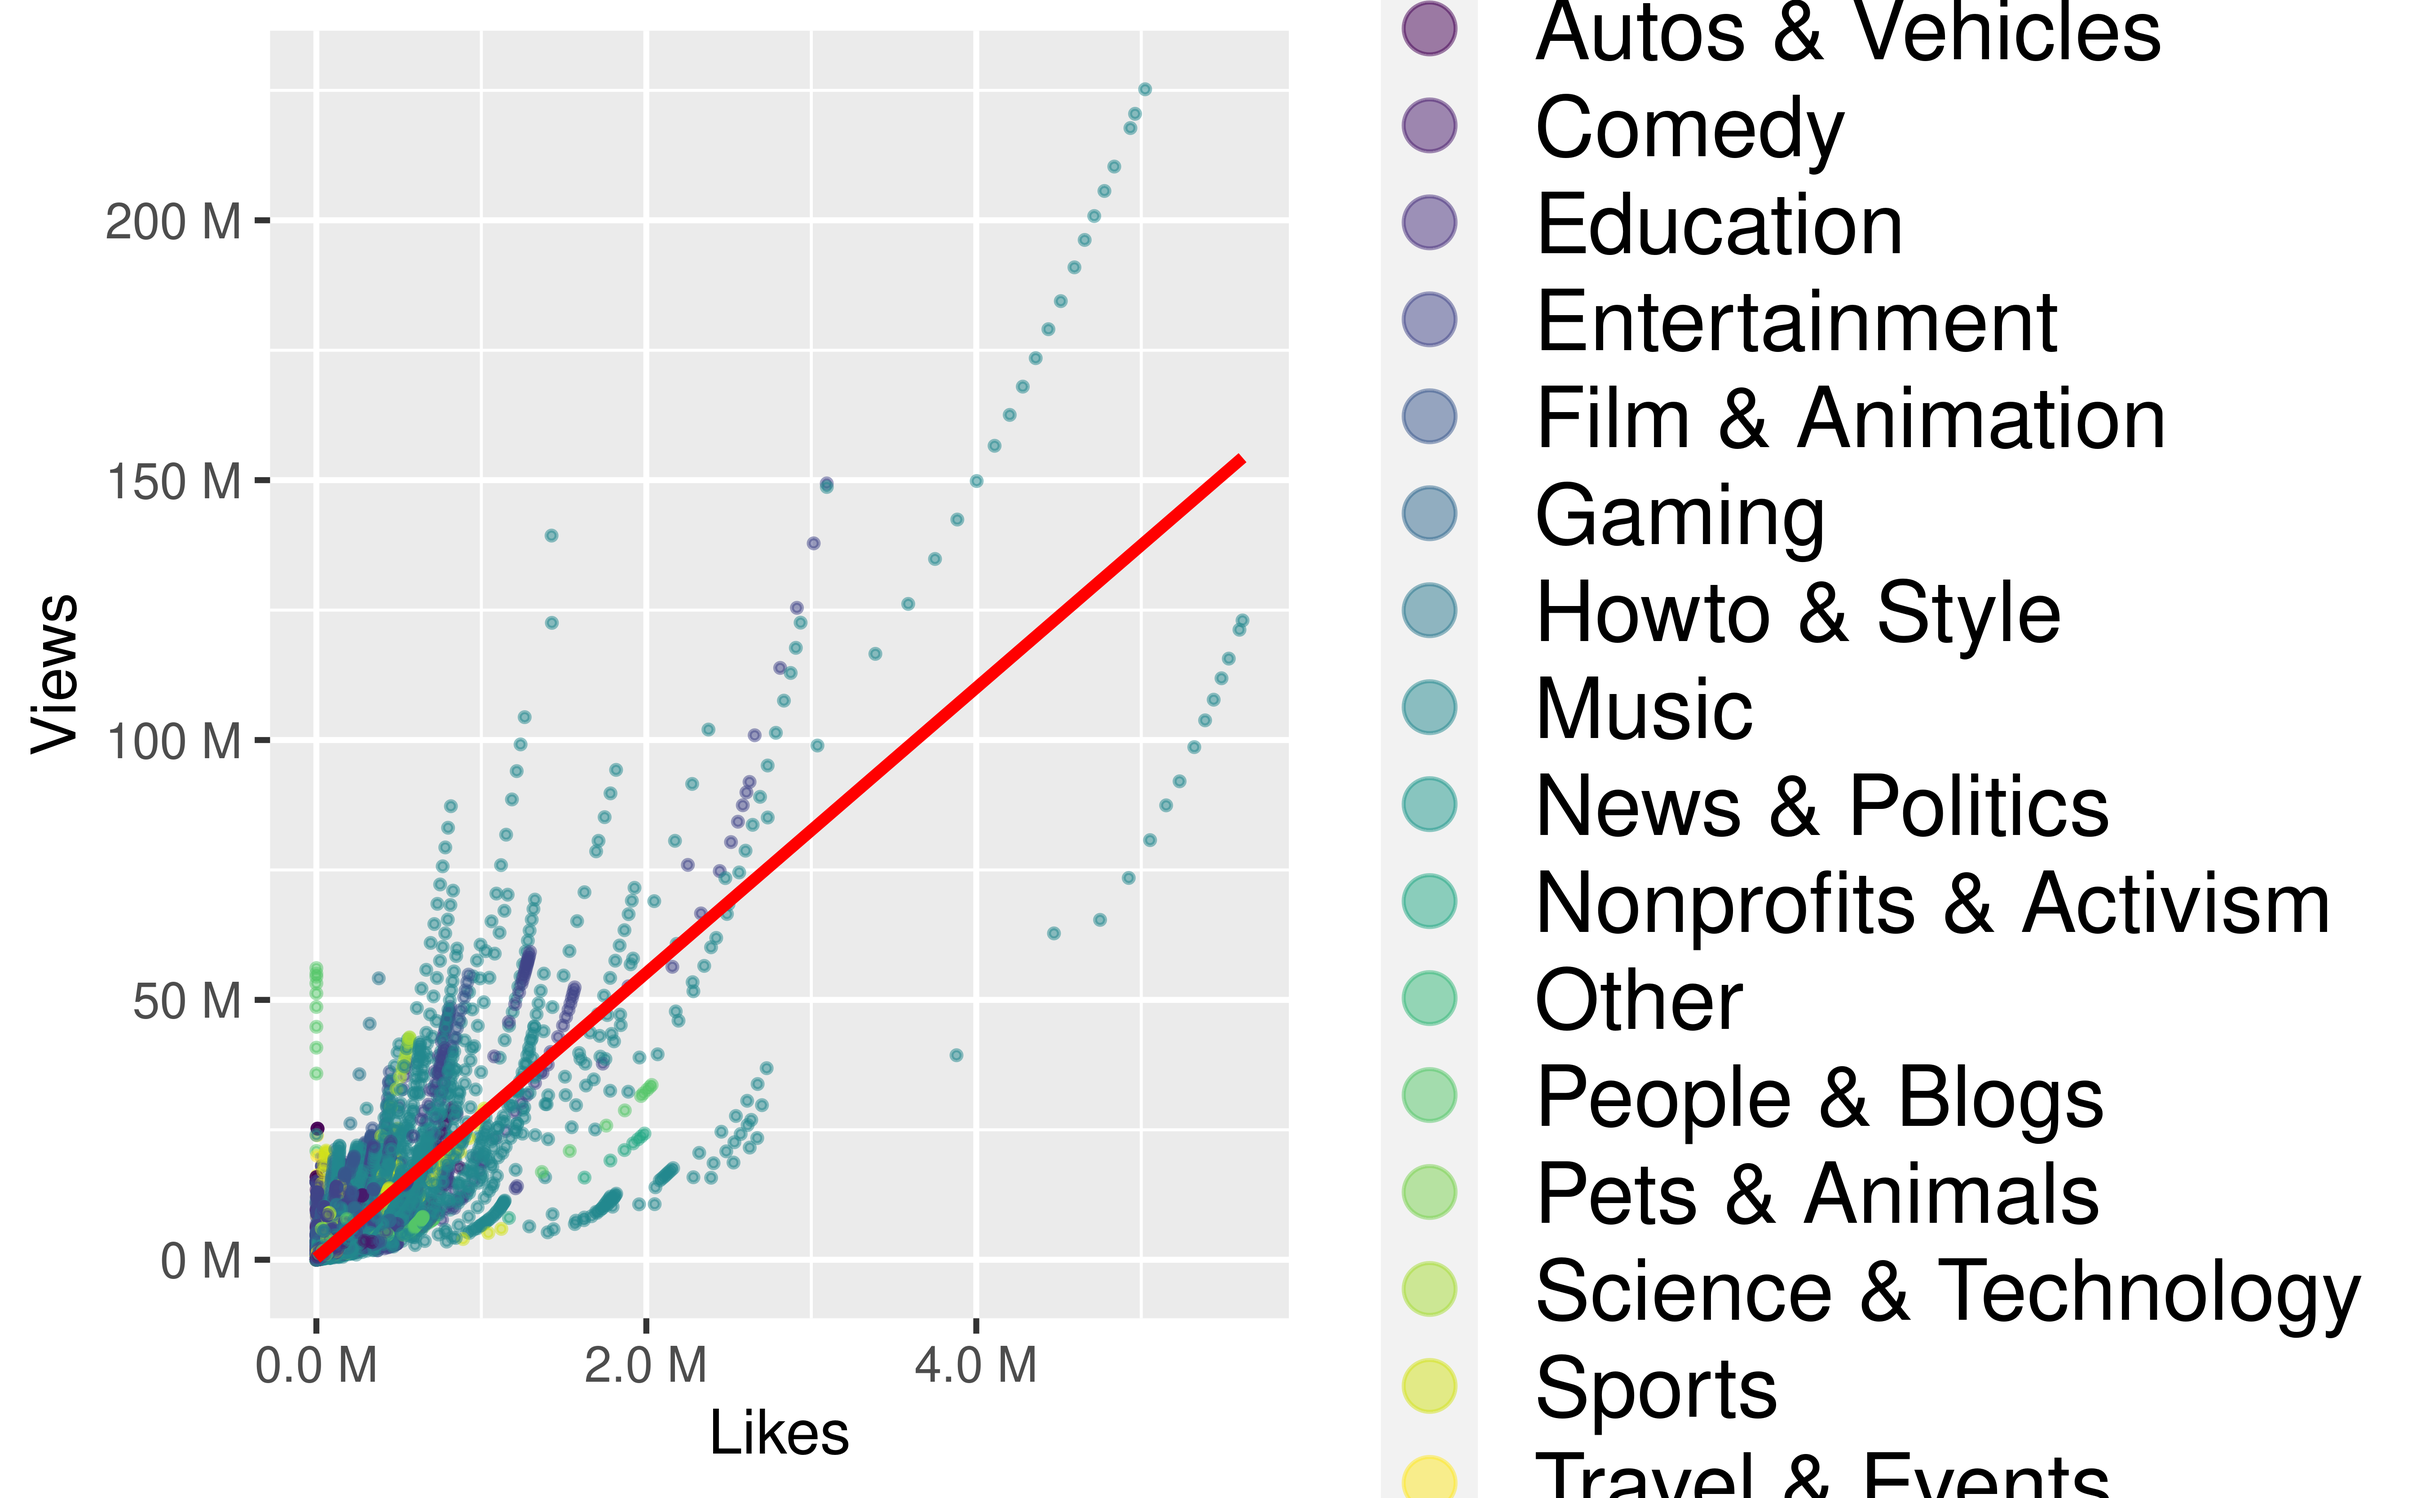
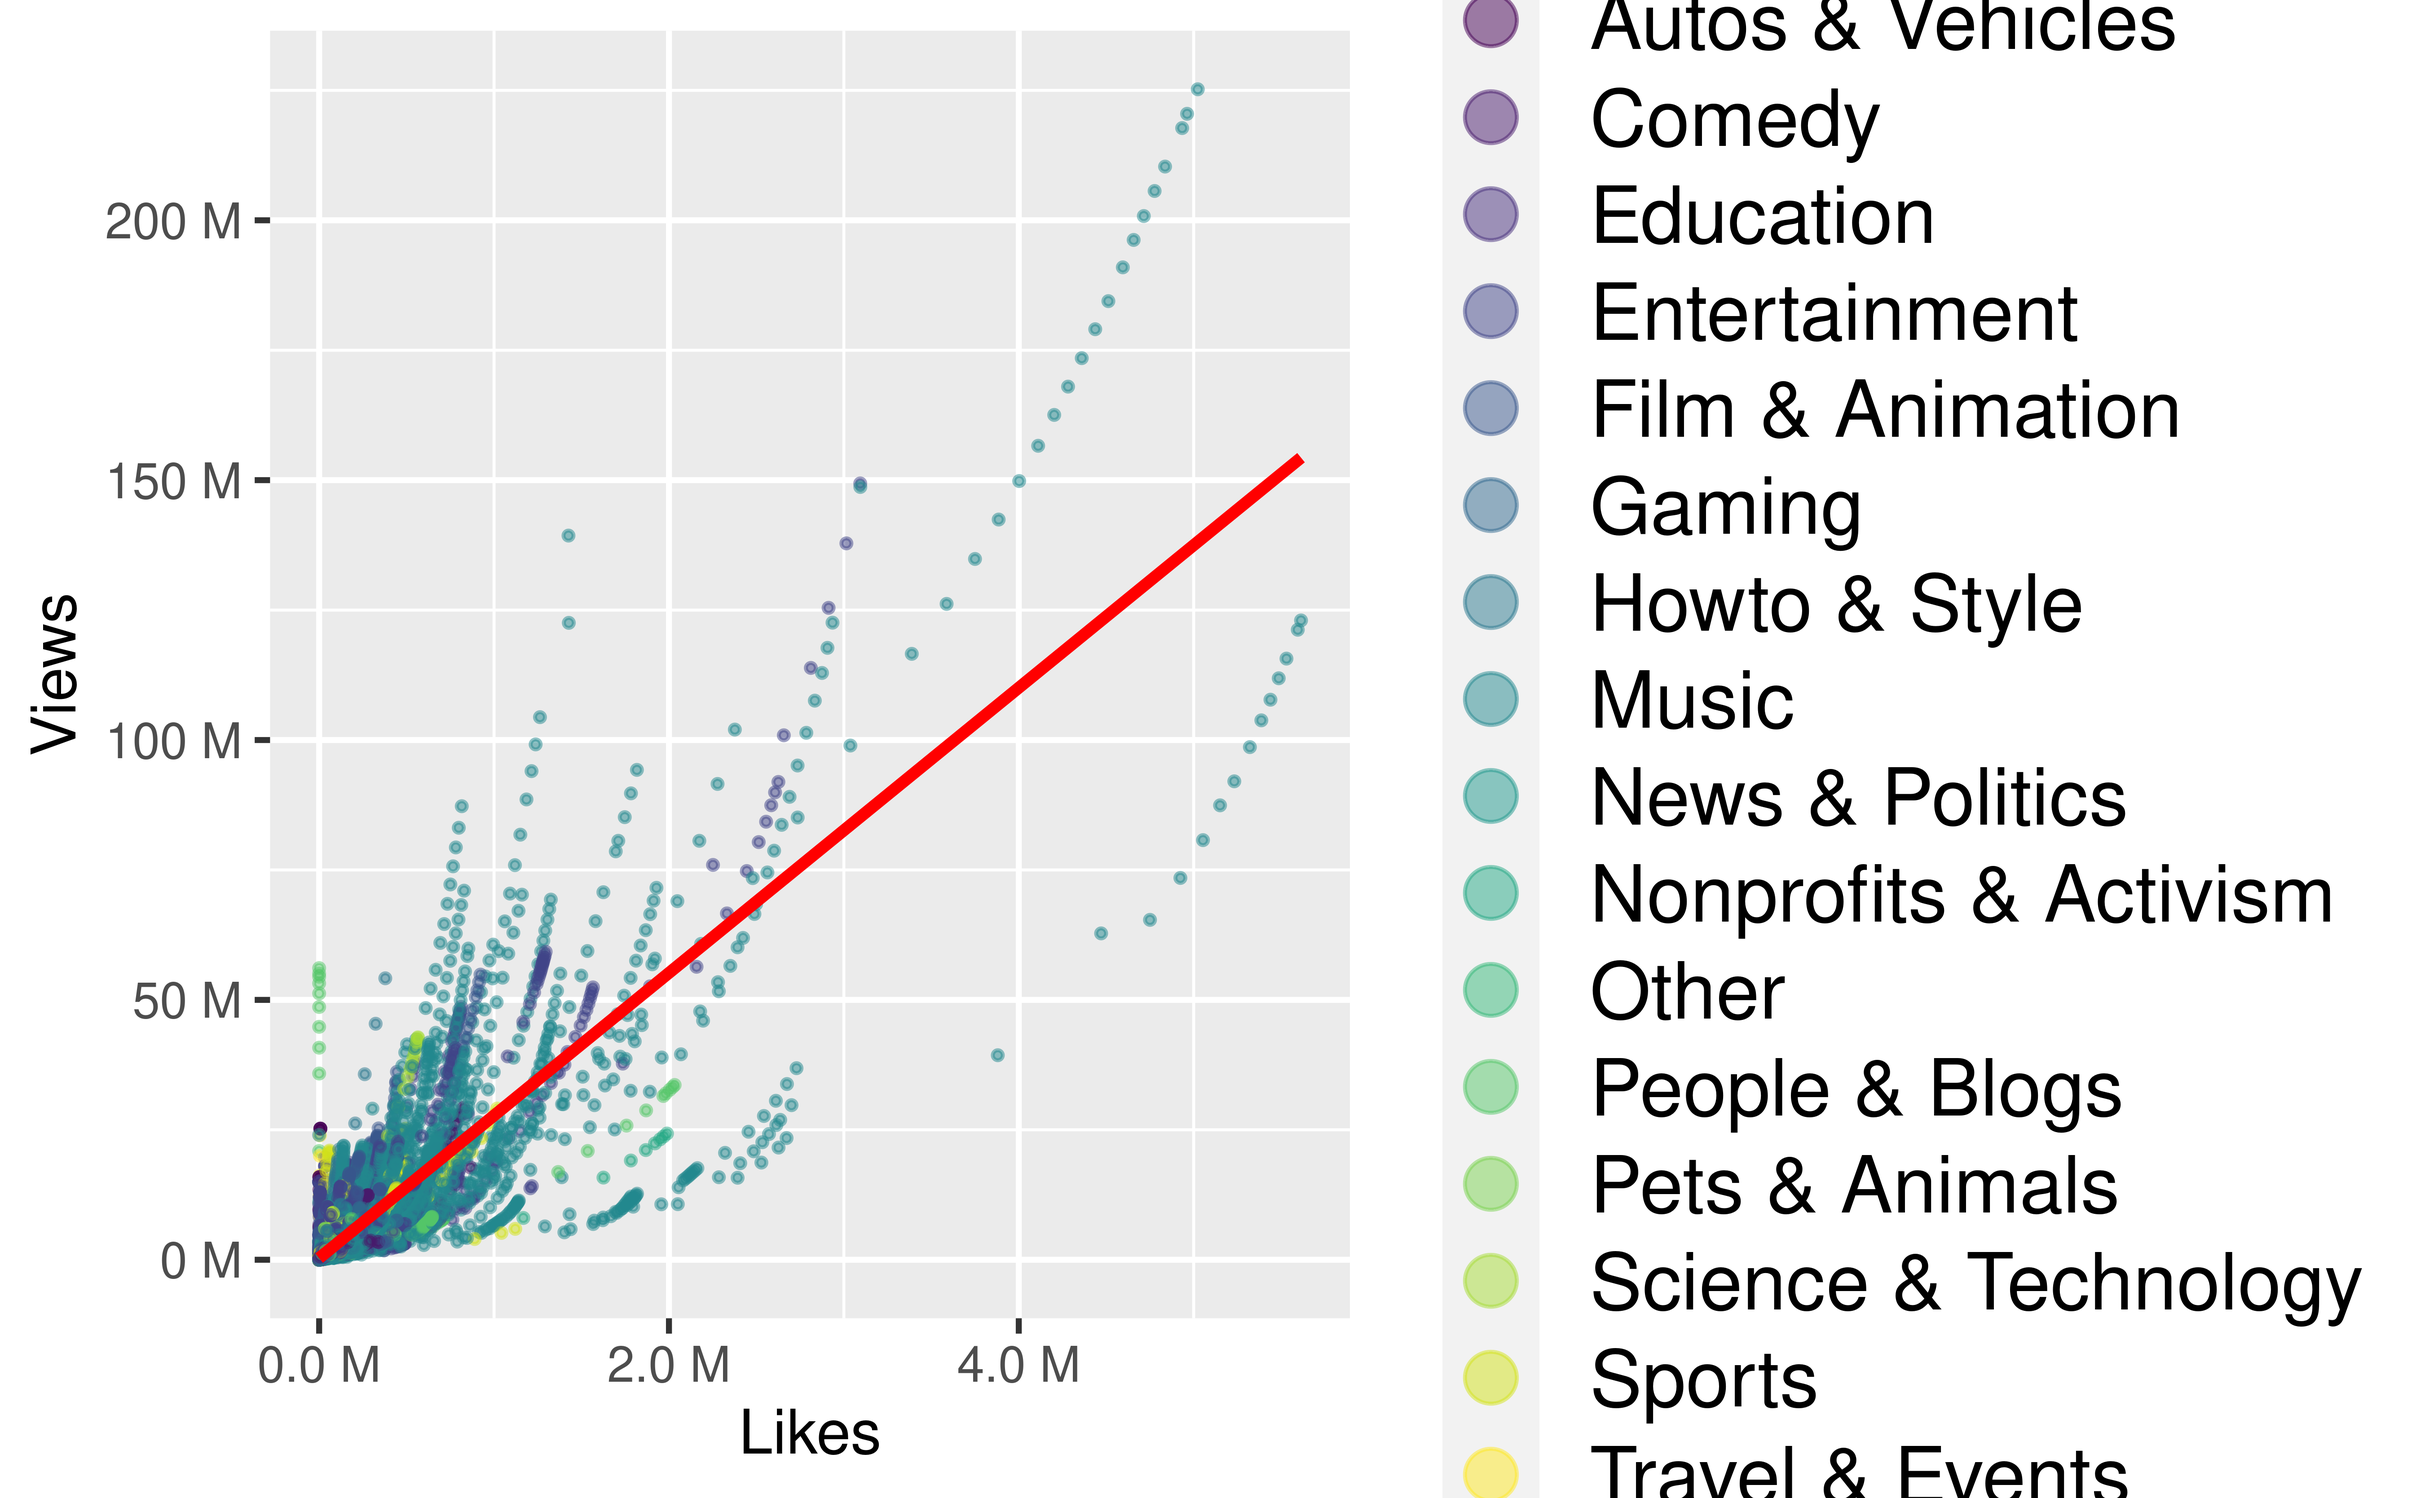
Edit presentation

diff --git a/presentation/presentation.html b/presentation/presentation.html
@@ -60,19 +60,24 @@ The year this data is taken from was not provided but we are told it "includes s
 # How Do Likes Impact Views?
 
 .pull-left[
-&lt;img src="presentation_files/figure-html/likes-views-1.png" width="150%" /&gt;
+&lt;img src="presentation_files/figure-html/likes-views-1.png" width="100%" /&gt;
 ]
 
 .pull-right[
-&lt;img src="presentation_files/figure-html/likes-views-faceted-1.png" width="150%" /&gt;
+&lt;img src="presentation_files/figure-html/likes-views-faceted-1.png" width="100%" /&gt;
 ]
---
+
+---
 
 # How Do Dislikes Impact Views?
 
---
+.pull-left[
+&lt;img src="presentation_files/figure-html/dislikes-views-1.png" width="100%" /&gt;
+]
 
-- Make sure to commit and push all resulting files to your GitHub repo
+.pull-right[
+&lt;img src="presentation_files/figure-html/dislikes-views-faceted-1.png" width="100%" /&gt;
+]
 
 ---
 
